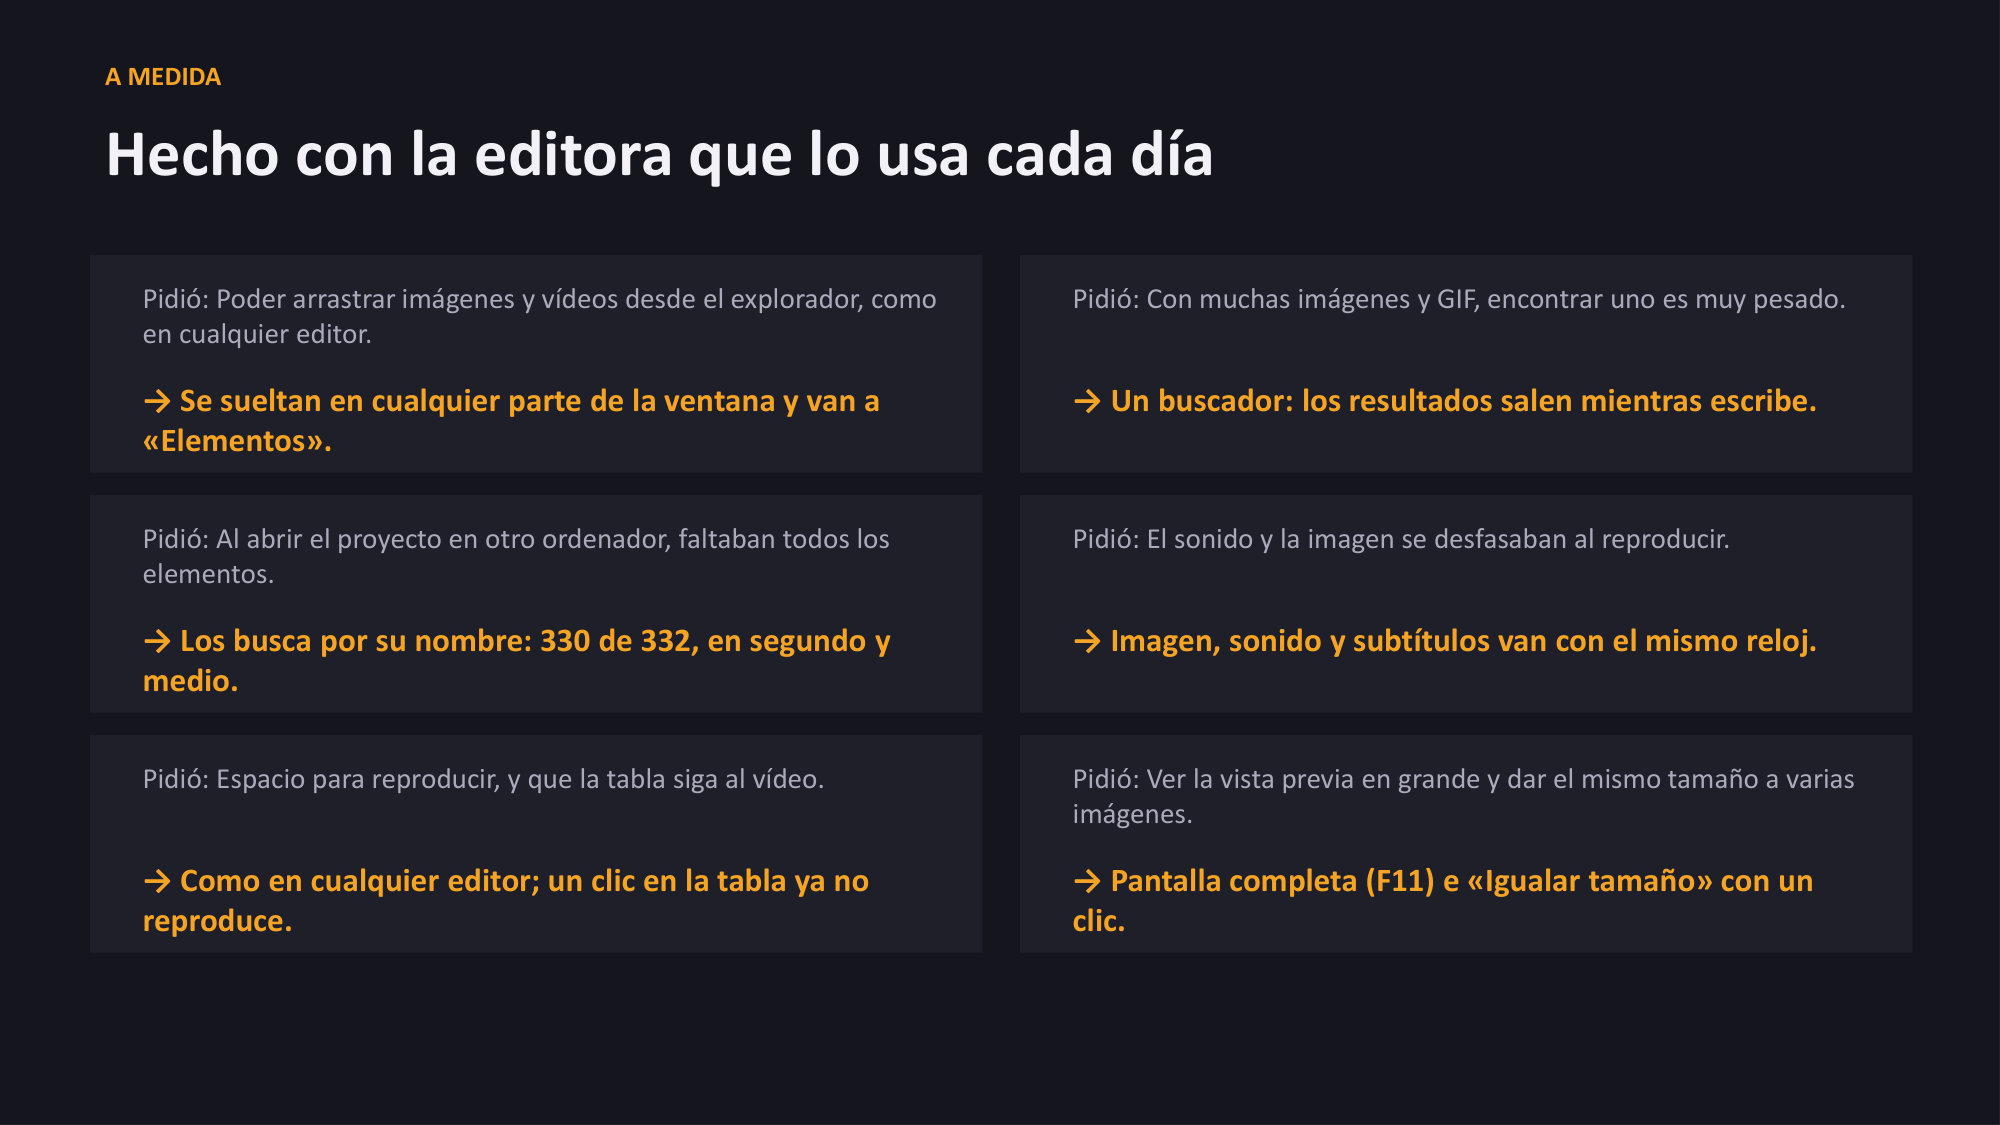
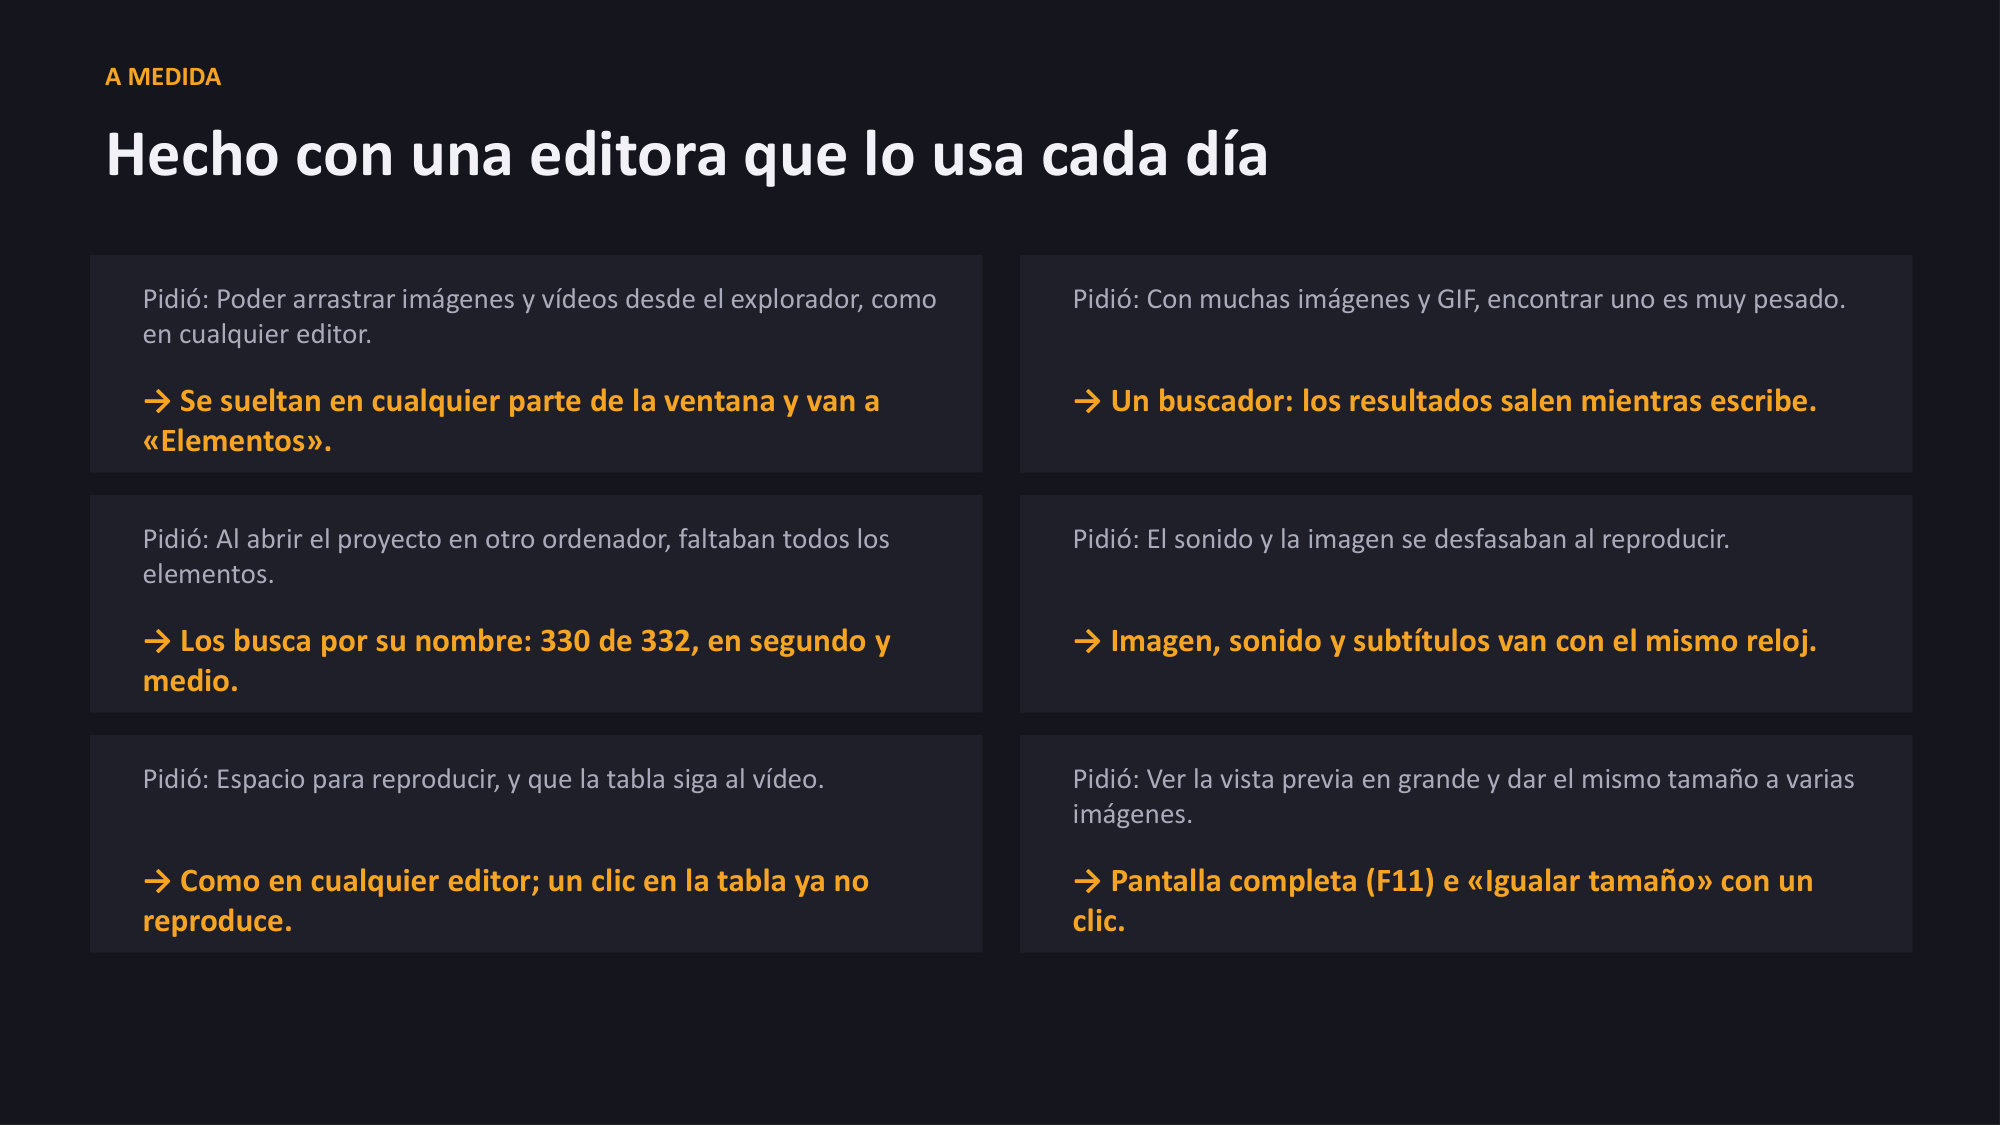
Presentación actualizada (05/11/2026)

Changed region(s): [[0.186, 0.0933, 0.651, 0.1556]]

diff --git a/index.html b/index.html
@@ -80,8 +80,8 @@ button:focus-visible { outline: 2px solid var(--amber); outline-offset: 2px; }
     <img src="diapositivas/11.jpg?v=77866d70ef" alt="Diapositiva 11: ELEMENTOS Imágenes, GIF, vídeos y música ●Arrástralos desde el Explorador o el Finder a cualquier parte de la ventana. ●Cientos de imágenes: buscador por nombre">
     <img src="diapositivas/12.jpg?v=268228d8d6" alt="Diapositiva 12: PROYECTOS Todos tus proyectos, nada más abrir ●Una sola ventana: se abre con tus proyectos y pasa al editor al elegir uno. ●Cada uno con un fotograma de su víde">
     <img src="diapositivas/13.jpg?v=ffa93c7758" alt="Diapositiva 13: EXPORTAR 9 formatos, en 1080p, 2K o 4K MP4 (H.264) El de siempre: redes, móviles y cualquier reproductor MP4 (H.265) Misma calidad, archivo más pequeño MOV (H.2">
-    <img src="diapositivas/14.jpg?v=cd964af2aa" alt="Diapositiva 14: WINDOWS Y MAC También en Mac Captura real en el Mac de la editora Acción Mac Deshacer / rehacer ⌘Z / ⌘⇧Z Cortar en el cabezal ⌘B Juntar palabras en una frase ⌘J">
-    <img src="diapositivas/15.jpg?v=0952109efe" alt="Diapositiva 15: A MEDIDA Hecho con la editora que lo usa cada día Pidió: Poder arrastrar imágenes y vídeos desde el explorador, como en cualquier editor. → Se sueltan en cualqu">
+    <img src="diapositivas/14.jpg?v=80afd4fe30" alt="Diapositiva 14: WINDOWS Y MAC También en Mac Captura real en el Mac donde se edita cada día Acción Mac Deshacer / rehacer ⌘Z / ⌘⇧Z Cortar en el cabezal ⌘B Juntar palabras en un">
+    <img src="diapositivas/15.jpg?v=7c0d18684b" alt="Diapositiva 15: A MEDIDA Hecho con una editora que lo usa cada día Pidió: Poder arrastrar imágenes y vídeos desde el explorador, como en cualquier editor. → Se sueltan en cualq">
     <img src="diapositivas/16.jpg?v=46b4921797" alt="Diapositiva 16: CÓMO SE HA HECHO 6 días, 67 avances 30/10 · 14:07 Primera exportación 30/10 · 16:27 Estilos y modo pop 30/10 · 21:02 Montaje 31/10 · 11:30 Generar cortes 31/10 ">
     <img src="diapositivas/17.jpg?v=9e7047647e" alt="Diapositiva 17: RESULTADOS En números 6 días del prototipo a editor de vídeo (30/10 a 05/11/2026) 67 avances en la cronología, cada uno probado 13 s para encontrar las 11 parti">
     <img src="diapositivas/18.jpg?v=695f64c265" alt="Diapositiva 18: PRÓXIMOS PASOS Lo que viene Versión definitiva Mac y Linux Aplicación instalable normal, sin Terminal. Instalador de Windows Instalación con un clic, con compro">
